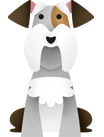
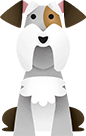
Kampaň: Postavička sa rozanimuje na mobiloch (#234)
* Kampaň: Postavička sa rozanimuje na mobiloch

* Krajšie obrázky hrdinov

* Parallaxove pozadie

* Zoom na dátumy

* Zarovnanie nadpisu

diff --git a/app/styles/pages/campaign/_hrdinska-patka.scss b/app/styles/pages/campaign/_hrdinska-patka.scss
@@ -56,6 +56,11 @@
     background: _color(red);
     margin-right: _get-space(tiny);
     color: _color(white);
+    transition: ease-in-out 300ms;
+
+    &:hover {
+      transform: scale(1.2);
+    }
 
     &.is-active {
       background: _color(white);
@@ -74,6 +79,17 @@
   }
 }
 
+.h5-hero-img {
+  transform: translateX(50%);
+  transition: transform ease-in-out 300ms;
+
+  img {
+    display: inline-block;
+    transform: translateX(-50%);
+    transition: transform ease-in-out 300ms;
+  }
+}
+
 .h5-background {
   min-height: 630px;
   background-size: initial;
@@ -82,13 +98,26 @@
 }
 
 .h5-carousel {
+  .parallax-bg {
+    position: absolute;
+    left: -20%;
+    bottom: 0;
+    width: 200%;
+    height: 100%;
+    background-size: initial;
+    background-position: center bottom;
+  }
 
   @include breakpoint('m', downfrom) {
     padding-left: 0;
     padding-right: 0;
 
     .swiper-slide-next {
-      //align-items: flex-start !important;
+      // stylelint-disable selector-max-compound-selectors
+      .h5-hero-img,
+      .h5-hero-img img {
+        transform: translateX(0%);
+      }
     }
 
     .swiper-slide-next,
@@ -136,7 +165,8 @@
   &--1 {
     background: #0a0651;
 
-    .h5-background {
+    .h5-background,
+    .parallax-bg {
       background-image: url('../images/content/campaign/hrdinska-patka/bg/web_hlavicka_les.jpg');
     }
   }
@@ -144,7 +174,8 @@
   &--2 {
     background: _color(green);
 
-    .h5-background {
+    .h5-background,
+    .parallax-bg {
       background-image: url('../images/content/campaign/hrdinska-patka/bg/web_hlavicka_shire.jpg');
     }
   }
@@ -152,7 +183,8 @@
   &--3 {
     background: #664282;
 
-    .h5-background {
+    .h5-background,
+    .parallax-bg {
       background-image: url('../images/content/campaign/hrdinska-patka/bg/web_hlavicka_mesto.jpg');
     }
   }
@@ -160,7 +192,8 @@
   &--4 {
     background: #299fa6;
 
-    .h5-background {
+    .h5-background,
+    .parallax-bg {
       background-image: url('../images/content/campaign/hrdinska-patka/bg/web_hlavicka_rozpravka.jpg');
     }
   }
@@ -170,7 +203,8 @@
   &--0 {
     background: #f28629;
 
-    .h5-background {
+    .h5-background,
+    .parallax-bg {
       background-image: url('../images/content/campaign/hrdinska-patka/bg/web_hlavicka_planeta.jpg');
     }
   }
@@ -179,6 +213,10 @@
 @include breakpoint('m') {
   .h5-logo {
     width: 200px;
+  }
+
+  .h5-title {
+    text-align: left;
   }
 
   .h5-days {

diff --git a/app/scripts/modules/Carousel.js b/app/scripts/modules/Carousel.js
@@ -1,5 +1,5 @@
 import SwiperCore, {
-  Swiper, Navigation, Pagination, Lazy
+  Swiper, Navigation, Pagination, Lazy, Parallax
 } from 'swiper/core';
 
 import { nodeListToArray } from './Utils';
@@ -31,7 +31,7 @@ const defaultConfig = {
 
 export default class SwiperSlider {
   constructor(selector = '.swiper-container', config = {}) {
-    SwiperCore.use([Navigation, Pagination, Lazy]);
+    SwiperCore.use([Navigation, Pagination, Lazy, Parallax]);
 
     this.selector = selector;
     this.config = { ...defaultConfig, ...config };
